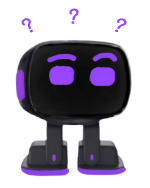
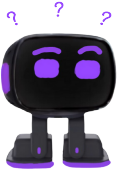
finalizando tela de EnsinoRemoto e inicializando tela de EntrarConta

diff --git a/site/src/components/EnsinoRemoto/EnsinoRemoto.css b/site/src/components/EnsinoRemoto/EnsinoRemoto.css
@@ -1,0 +1,83 @@
+.Robertofalando {
+  height: 80vh;
+}
+
+.fala-R {
+  height: 70px;
+  background-color: #fff;
+  border: 3px solid;
+  border-color: #616161;
+  border-radius: 10px 10px 10px 0;
+}
+
+.container {
+  display: flex;
+  justify-content: space-between;
+  align-items: center;
+}
+
+.box {
+  width: 50%;
+  padding: 5px;
+}
+
+.fala-R p {
+  font-family: Itim;
+  display: flex;
+  text-align: center;
+  font-size: smaller;
+}
+
+.login {
+  font-family: Karla;
+  text-transform: uppercase;
+  justify-content: center;
+}
+
+.CriarConta {
+  width: 239px;
+}
+
+.EntrarConta {
+  width: 239px;
+}
+
+.CriarConta p {
+  color: #ce82ff;
+}
+
+.EntrarConta p {
+  color: #fff;
+}
+
+.btn-primary-e {
+  border: 3px solid;
+  border-color: #9747ff;
+  background-color: #ce82ff;
+  width: 239px;
+  height: 40px;
+  border-radius: 50px;
+  transition: box-shadow 0.3s;
+}
+
+.btn-primary-e:hover {
+  background-color: #ce82ff;
+  box-shadow: 0 4px 10px rgba(151, 74, 255, 10);
+  transform: translateY(2px);
+}
+
+.btn-primary-c {
+  background-color: #e5e5e5;
+  border: 3px solid;
+  border-color: #d2d2d2;
+  width: 239px;
+  height: 40px;
+  border-radius: 50px;
+  transition: box-shadow 0.3s;
+}
+
+.btn-primary-c:hover {
+  background-color: #e5e5e5;
+  box-shadow: 0 4px 10px rgba(210, 210, 210, 1);
+  transform: translateY(2px);
+}

diff --git a/site/src/components/EnsinoRemoto/EnsinoRemoto.jsx b/site/src/components/EnsinoRemoto/EnsinoRemoto.jsx
@@ -1,13 +1,27 @@
 import React from "react";
 import { Link } from "react-router-dom";
+import "./EnsinoRemoto.css";
+import RobertinhoPiscando from "../../assets/robertinhoPiscando.png";
 
 const EnsinoRemoto = () => {
   return (
     <>
-      <div>EnsinoRemoto</div>
-
-      <p>
-      </p>
+      <div className="container">
+        <div className="Robertofalando box d-flex justify-content-center align-items-center">
+          <img src={RobertinhoPiscando} alt="" className="robertoPiscando" />
+        </div>
+        <div className="fala-R box">
+          <p>Olá, eu sou o Roberto Robô, venha conhecer o meu site!</p>
+        </div>
+      </div>
+      <div className="login d-grid gap-3">
+        <Link to={"../EntrarConta"} className="EntrarConta btn btn-primary-e ">
+          <p>Entre com sua conta</p>
+        </Link>
+        <Link to={"../CriarConta"} className="CriarConta btn btn-primary-c ">
+          <p>Crie uma conta</p>
+        </Link>
+      </div>
     </>
   );
 };

diff --git a/site/src/main.jsx b/site/src/main.jsx
@@ -10,6 +10,8 @@ import Home from "./components/Home/Home.jsx";
 import EnsinoRemoto from "./components/EnsinoRemoto/EnsinoRemoto.jsx";
 import Header from "./components/Header/Header.jsx";
 import EnsinoInstitucional from "./components/EnsinoInstitucional/EnsinoInstitucional.jsx";
+import CriarConta from "./components/CriarConta/CriarConta.jsx";
+import EntrarConta from "./components/EntrarConta/EntrarConta.jsx";
 
 const router = createBrowserRouter([
   {
@@ -20,7 +22,8 @@ const router = createBrowserRouter([
       { path: "/", element: <Home /> },
       { path: "EnsinoRemoto", element: <EnsinoRemoto /> },
       { path: "EnsinoInstitucional", element: <EnsinoInstitucional /> },
-      { path: "teste", element: <Teste /> },
+      { path: "CriarConta", element: <CriarConta/> },
+      { path: "EntrarConta", element: <EntrarConta/> },
       { path: "Header", element: <Header /> },
     ],
   },

diff --git a/site/src/components/EntrarConta/EntrarConta.jsx b/site/src/components/EntrarConta/EntrarConta.jsx
@@ -1,0 +1,16 @@
+import React from "react";
+import "./EntrarConta.css";
+import Header from "../Header/Header";
+import RoberTeach from "../../assets/RT-Maior.png";
+
+const EntrarConta = () => {
+  return (
+    <>
+      <div className="logoRT mt-5">
+        <img src={RoberTeach} alt="" />
+      </div>
+    </>
+  );
+};
+
+export default EntrarConta;

diff --git a/site/src/App.jsx b/site/src/App.jsx
@@ -3,12 +3,10 @@ import "./App.css";
 import "bootstrap/dist/css/bootstrap.min.css";
 import "bootstrap/dist/js/bootstrap.bundle";
 import "bootstrap/dist/js/bootstrap";
-import Header from "./components/Header/Header";
 
 function App() {
   return (
     <>
-      <Header />
       <Outlet />
     </>
   );

diff --git a/site/src/components/Home/Home.jsx b/site/src/components/Home/Home.jsx
@@ -11,6 +11,7 @@ import SetinhaVoltar from "../../assets/setinhaVoltar.svg";
 const Home = () => {
   return (
     <>
+      <Header />
       <Body />
       <div className="row">
         <nav className="gap-4 box-e d-flex flex-column d-md-block col col-md justify-content-center rounded-3">

diff --git a/site/src/components/CriarConta/CriarConta.jsx b/site/src/components/CriarConta/CriarConta.jsx
@@ -1,0 +1,9 @@
+import React from 'react'
+
+const CriarConta = () => {
+  return (
+    <div>CriarConta</div>
+  )
+}
+
+export default CriarConta

diff --git a/site/src/components/EntrarConta/EntrarConta.css b/site/src/components/EntrarConta/EntrarConta.css
@@ -1,0 +1,4 @@
+.logoRT{
+    display: flex;
+    justify-content: center;
+}
